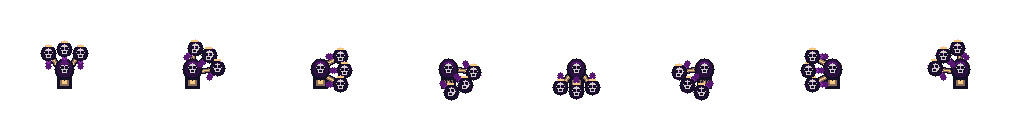
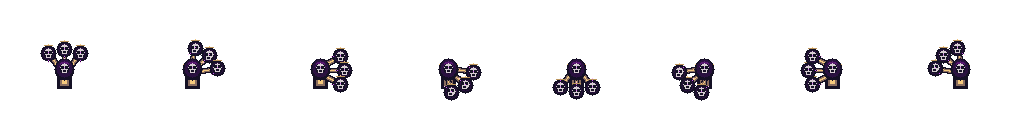
Art: simplify Legion skull swarm silhouettes at native pixel scale (#365)
* Art: reduce Legion skull swarm visual noise in candidate generator

* Temporary workflow to regenerate Legion candidate PNG

* Regenerate simplified Legion candidate weapon atlas

* Remove temporary Legion PNG regeneration workflow

---------

diff --git a/tools/generate_necro_modular_candidates.py b/tools/generate_necro_modular_candidates.py
@@ -279,12 +279,16 @@ def legion_skull_swarm(im,dx,dy):
   line(im,64+sx*q*3,70+sy*q*3,hx,hy,2,1);line(im,64+sx*q*3,70+sy*q*3,hx,hy,1,5);line(im,64+sx*q*3,70+sy*q*3,hx,hy,0,7)
  hooded_hub(im)
  for q,hx,hy in heads:
-  for k in (5,4,3,2):
-   oval(im,hx-dx*k*2.5,hy-dy*k*2.5,k//2+1,k//2+1,9 if k>3 else 10)
-  oval(im,hx,hy,8,8,1);oval(im,hx,hy,6,6,8)
+  # Keep exactly three distinct skulls, with a compact aura rather
+  # than overlapping trails of violet particles at native 1x.
+  oval(im,hx,hy,8,8,1)
+  oval(im,hx,hy,6,6,8)
   skull(im,hx,hy)
-  box(im,hx-3,hy-8,hx+3,hy-7,7);point(im,hx,hy-9,12)
-  point(im,hx-dx*7+sx*3,hy-dy*7+sy*3,12);point(im,hx+dx*7-sx*3,hy+dy*7-sy*3,11)
+  # The gold brow and one violet soul-flame mark the skull silhouette.
+  line(im,hx-4,hy-8,hx+4,hy-8,0,6)
+  point(im,hx,hy-9,7)
+  point(im,hx-dx*7,hy-dy*7,11)
+  point(im,hx-dx*9,hy-dy*9,12)
 def weapon(branch):
  atlas=canvas(1024,128)
  for idx,(dx,dy) in enumerate(DIRECTIONS):
